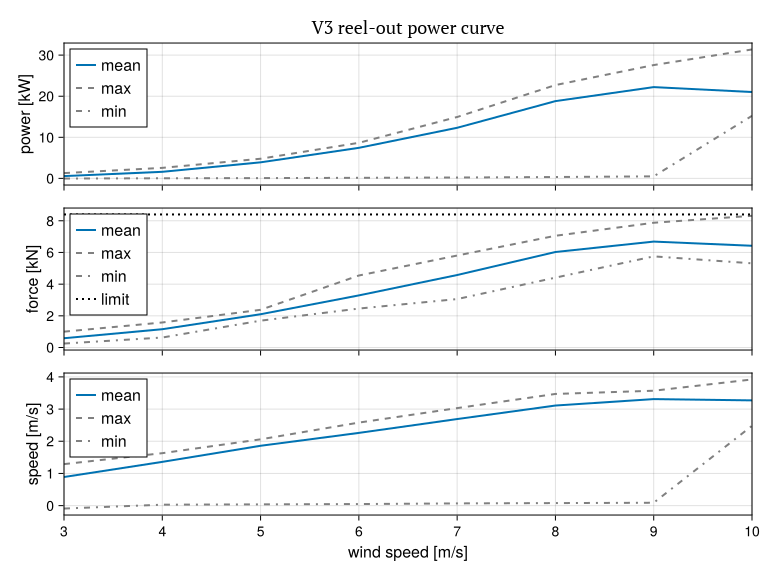
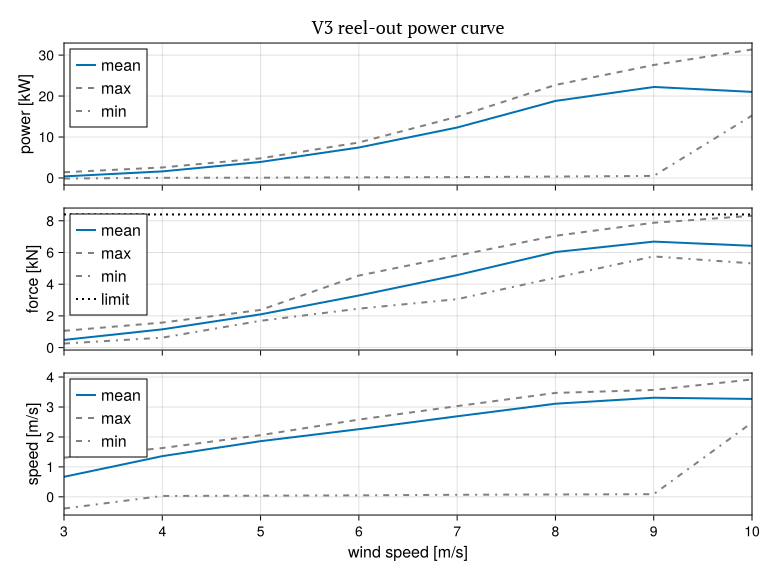
Add 3 m/s result

diff --git a/notebooks/overview.md b/notebooks/overview.md
@@ -1,6 +1,6 @@
 | date | time | v_wind | power_ratio | total_time | rt_factor | opt_requests | opts_installed | av_power | min_power | max_power | min_force | av_force | max_force | v_ro_min | v_ro_av | v_ro_max | av_depower |
 | :---: | :---: | :---: | :---: | :---: | :---: | :---: | :---: | :---: | :---: | :---: | :---: | :---: | :---: | :---: | :---: | :---: | :---: |
-| 2026-08-24 | 11:55:12 | 3.0 | 1.44 | 221.9 | 4.57 | 6 | 5 | 563 | -36 | 1290 | 249 | 585 | 1000 | -0.09 | 0.89 | 1.29 | 0.294 |
+| 2026-08-27 | 00:27:04 | 3.0 | 4.15 | 388.0 | 3.71 | 7 | 6 | 381 | -144 | 1396 | 258 | 488 | 1061 | -0.39 | 0.67 | 1.31 | 0.29 |
 | 2026-08-26 | 23:49:58 | 4.0 | 1.08 | 306.3 | 2.99 | 6 | 6 | 1602 | 33 | 2562 | 629 | 1154 | 1579 | 0.03 | 1.36 | 1.63 | 0.28 |
 | 2026-08-26 | 23:41:12 | 5.0 | 1.01 | 236.2 | 2.85 | 6 | 6 | 3910 | 71 | 4784 | 1693 | 2100 | 2379 | 0.04 | 1.86 | 2.06 | 0.272 |
 | 2026-08-26 | 21:00:24 | 6.0 | 1.0 | 217.8 | 3.45 | 6 | 6 | 7438 | 144 | 8660 | 2458 | 3289 | 4545 | 0.05 | 2.26 | 2.58 | 0.267 |
